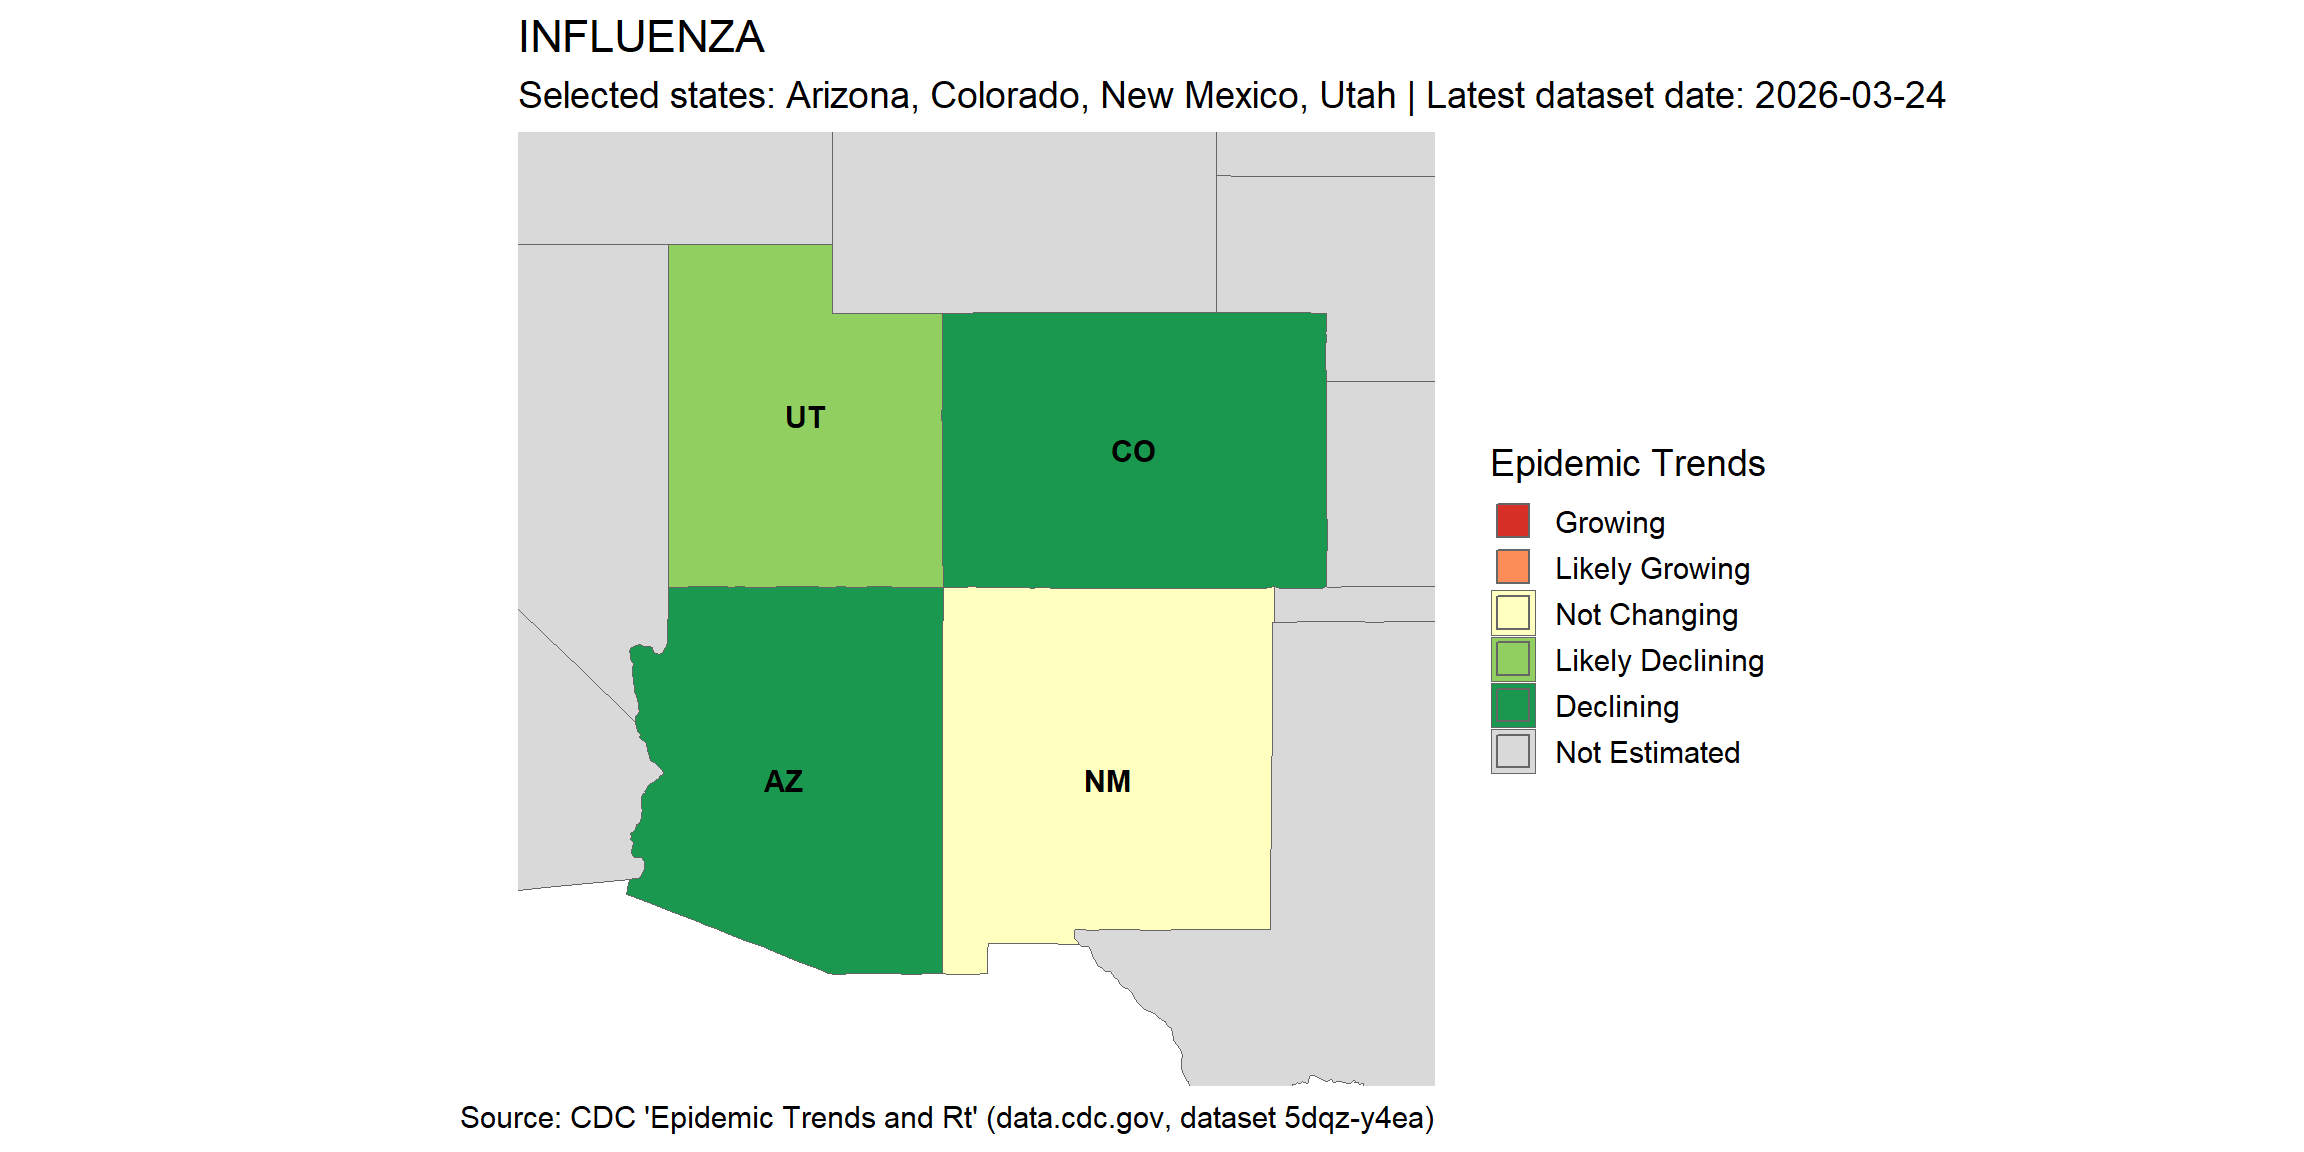
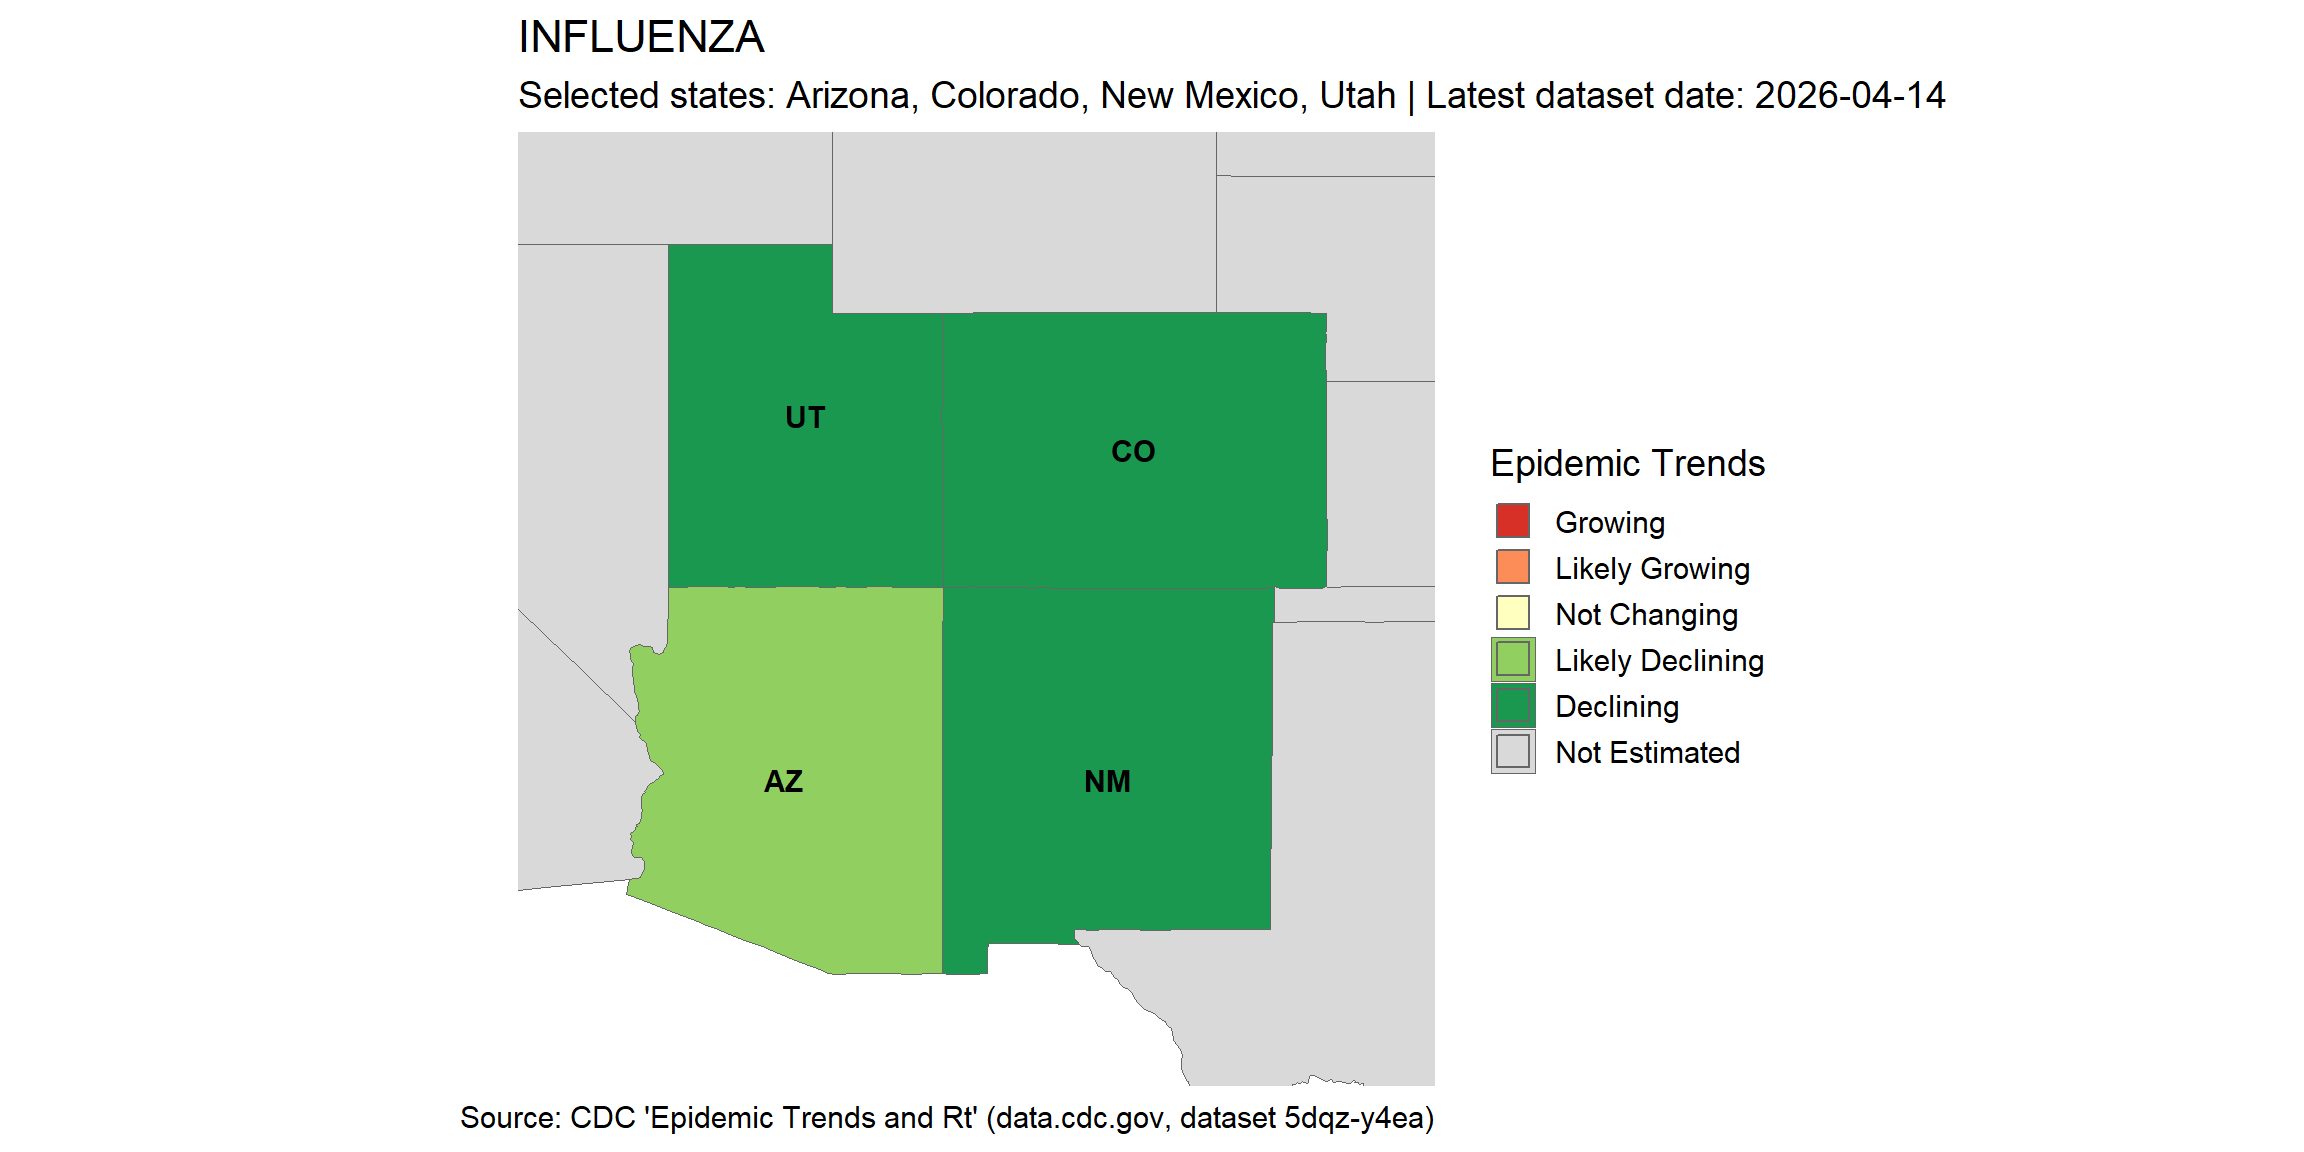
Update 4.20

Changed region(s): [[0.25, 0.1875, 0.5625, 0.8438], [0.8125, 0.0625, 0.8438, 0.0938]]

diff --git a/docs/trajectory-maps.html b/docs/trajectory-maps.html
@@ -484,10 +484,11 @@ RSV
 <div class="cardish-summary">
 <p>
 The current COVID epidemic trend is <strong>declining</strong> for
-Arizona, Colorado, and New Mexico and <strong>not changing</strong> for
-Utah. The weekly percentage of ED visits diagnosed with COVID was
-<strong>very low</strong> for Arizona, Colorado, New Mexico, and Utah.
-(Trend assessments based on data reported through 3/24/2026)
+Arizona and New Mexico, <strong>likely declining</strong> for Utah, and
+<strong>not changing</strong> for Colorado. The weekly percentage of ED
+visits diagnosed with COVID was <strong>very low</strong> for Arizona,
+Colorado, New Mexico, and Utah. (Trend assessments based on data
+reported through 4/14/2026)
 </p>
 </div>
 <img src="trajectory-maps_files/figure-html/cdc-rt-trend-maps-with-paired-summaries-1.png" width="100%" style="display: block; margin: auto;" />
@@ -496,11 +497,10 @@ Utah. The weekly percentage of ED visits diagnosed with COVID was
 <div class="cardish-summary">
 <p>
 The current flu epidemic trend is is <strong>declining</strong> for
-Arizona and Colorado, <strong>likely declining</strong> for Utah, and
-<strong>not changing</strong> for New Mexico. The weekly percentage of
-ED visits diagnosed with influenza was <strong>moderate</strong> for
-Colorado and <strong>low</strong> for Arizona, New Mexico, and Utah.
-(Trend assessments based on data reported through 3/24/2026)
+Colorado, New Mexico, and Utah and <strong>likely declining</strong> for
+Arizona. The weekly percentage of ED visits diagnosed with influenza was
+<strong>low</strong> for Arizona, Colorado, New Mexico, and Utah. (Trend
+assessments based on data reported through 4/14/2026)
 </p>
 </div>
 <img src="trajectory-maps_files/figure-html/cdc-rt-trend-maps-with-paired-summaries-2.png" width="100%" style="display: block; margin: auto;" />
@@ -509,11 +509,10 @@ Colorado and <strong>low</strong> for Arizona, New Mexico, and Utah.
 <div class="cardish-summary">
 <p>
 The current RSV epidemic trend is <strong>declining</strong> for
-Arizona, Colorado, and Utah and <strong>likely declining</strong> for
-New Mexico. The weekly percentage of ED visits diagnosed with RSV was
-<strong>moderate</strong> for Colorado and <strong>low</strong> for
-Arizona, New Mexico, and Utah. (Trend assessments based on data reported
-through 3/24/2026)
+Arizona, Colorado, New Mexico, and Utah. The weekly percentage of ED
+visits diagnosed with RSV was <strong>low</strong> for Arizona,
+Colorado, New Mexico, and Utah. (Trend assessments based on data
+reported through 4/14/2026)
 </p>
 </div>
 <img src="trajectory-maps_files/figure-html/cdc-rt-trend-maps-with-paired-summaries-3.png" width="100%" style="display: block; margin: auto;" />

diff --git a/docs/index.html b/docs/index.html
@@ -424,7 +424,7 @@ $(document).ready(function () {
 Respiratory Virus Situation Report
 </h1>
 <p class="home-subtitle">
-Arizona • Colorado • New Mexico • Utah — updated <strong>March 30,
+Arizona • Colorado • New Mexico • Utah — updated <strong>April 20,
 2026</strong>
 </p>
 <div class="home-grid">
